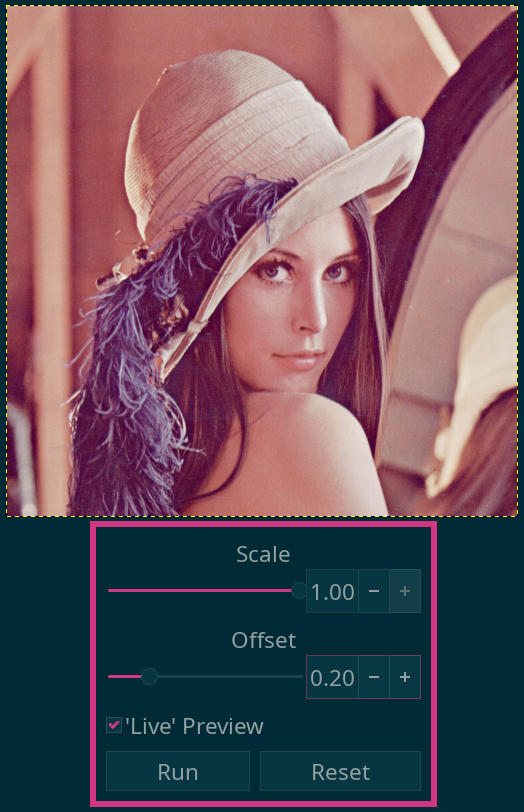
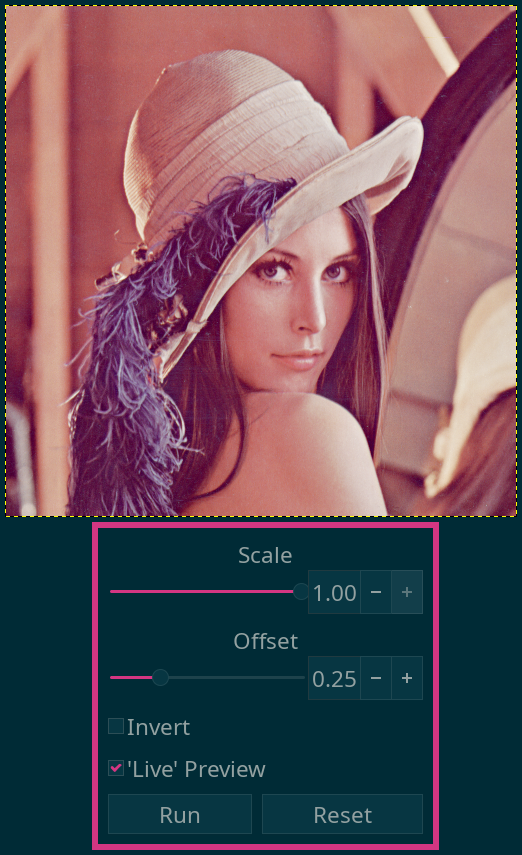
Filmic chroma invert param

diff --git a/bsz-filmic-chroma/bsz-filmic-chroma.py b/bsz-filmic-chroma/bsz-filmic-chroma.py
@@ -29,13 +29,13 @@ from gi.repository import Gegl
 import sys
 import os.path
 sys.path.append(os.path.dirname(os.path.realpath(__file__)) + '/../')
-from bsz_gimp_lib import PlugIn, ParamNumber
+from bsz_gimp_lib import PlugIn, ParamNumber, ParamBool
 
 import numpy
 
 
 # Main function.
-def filmic_chroma(image, drawable, scale, offset):
+def filmic_chroma(image, drawable, scale, offset, invert):
     # {{{
     # Fairly certain mask_intersect() is the current selection mask
     intersect, x, y, width, height = drawable.mask_intersect()
@@ -69,7 +69,10 @@ def filmic_chroma(image, drawable, scale, offset):
         # *= modifies in-place. I guess it automatically transfers through
         # frombuffer to directly modify pixels bytearray?
         # tl;dr new to the numpy black magic, StackOverflow showed the way.
-        np_array[1::4] *= offset - np_array[0::4] / scale
+        if not invert:
+            np_array[1::4] *= offset - np_array[0::4] / scale
+        else:
+            np_array[1::4] *= offset - (100 - np_array[0::4]) / scale
 
         shadow.set(rect, "CIE LCH(ab) alpha double", bytes(pixels))
 
@@ -101,6 +104,7 @@ plugin = PlugIn(
                 "How much the chroma decreases with lightness.",
                 ui_step=0.1),
     ParamNumber("Offset", 0.25, 0, 1, "Flat chroma boost.", ui_step=0.1),
+    ParamBool("Invert", False, "Invert lightness' effect on chroma."),
     description="Reduces/increases chroma based on intensity.\n"
     "Inspired by Blender's new 'Filmic' tonemapper.",
     images="RGB*",
